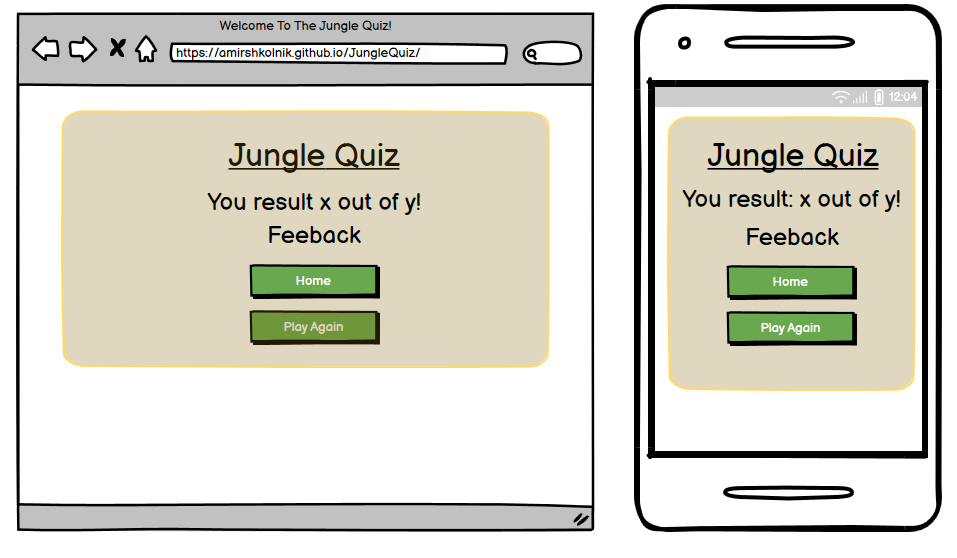
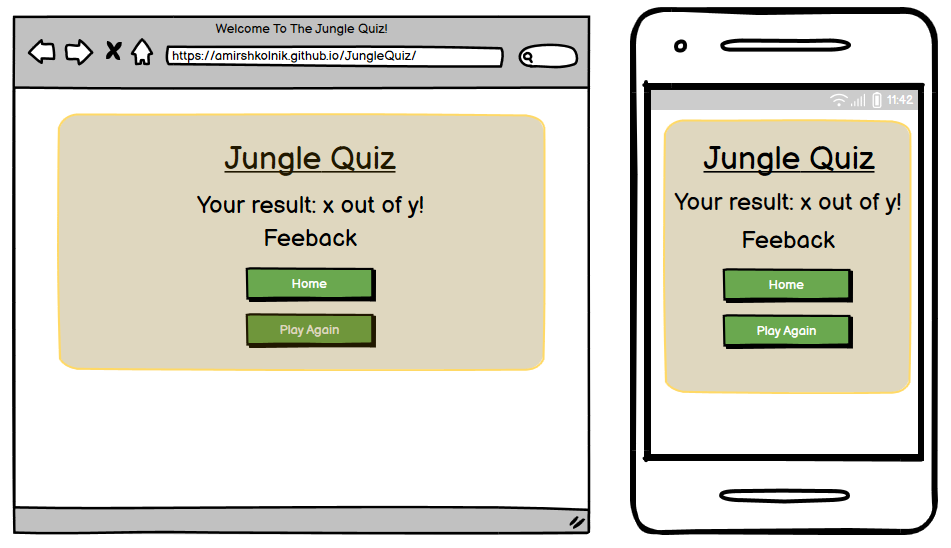
readme - update wireframe images, bugs, Score and Feedback text

diff --git a/README.md b/README.md
@@ -160,7 +160,7 @@ The wireframe shows designs for iPad/tablet and desktop displays, but the finish
 
 #### 2. Follow The Rules:
 
-![Rules](/doc/readme-images/Follow-The-Rules-2.png)
+![Rules](/doc/readme-images/Follow-The-Rules.png)
 
 #### 3. Quiz Questions:
 
